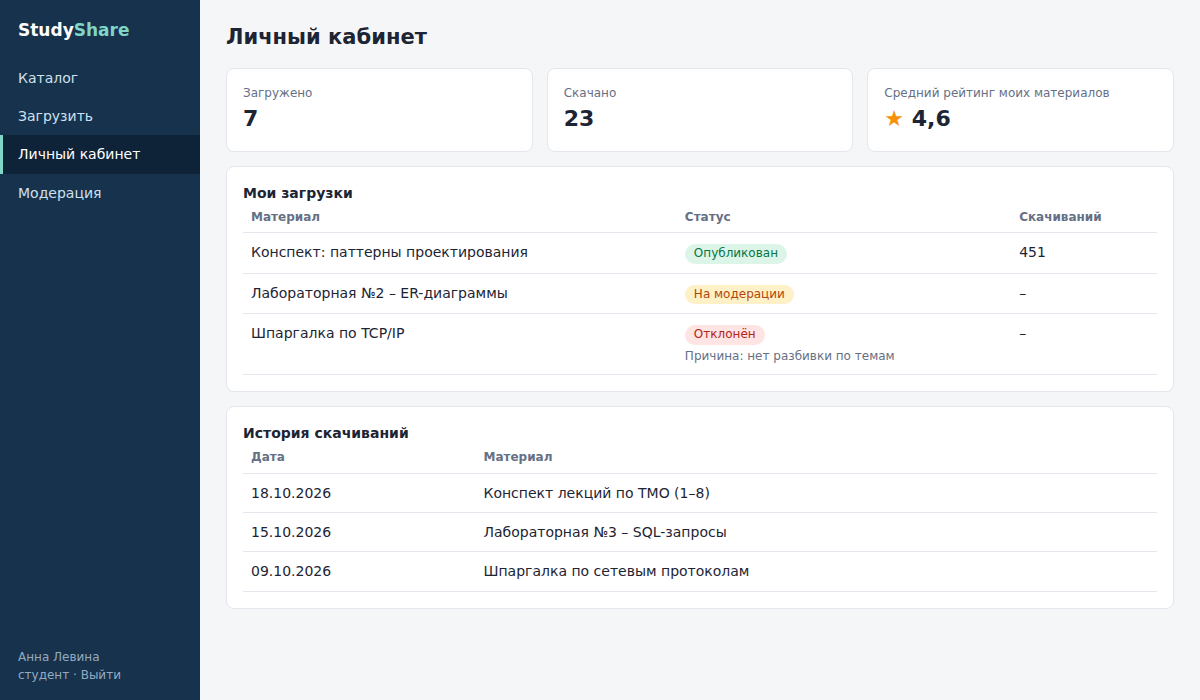
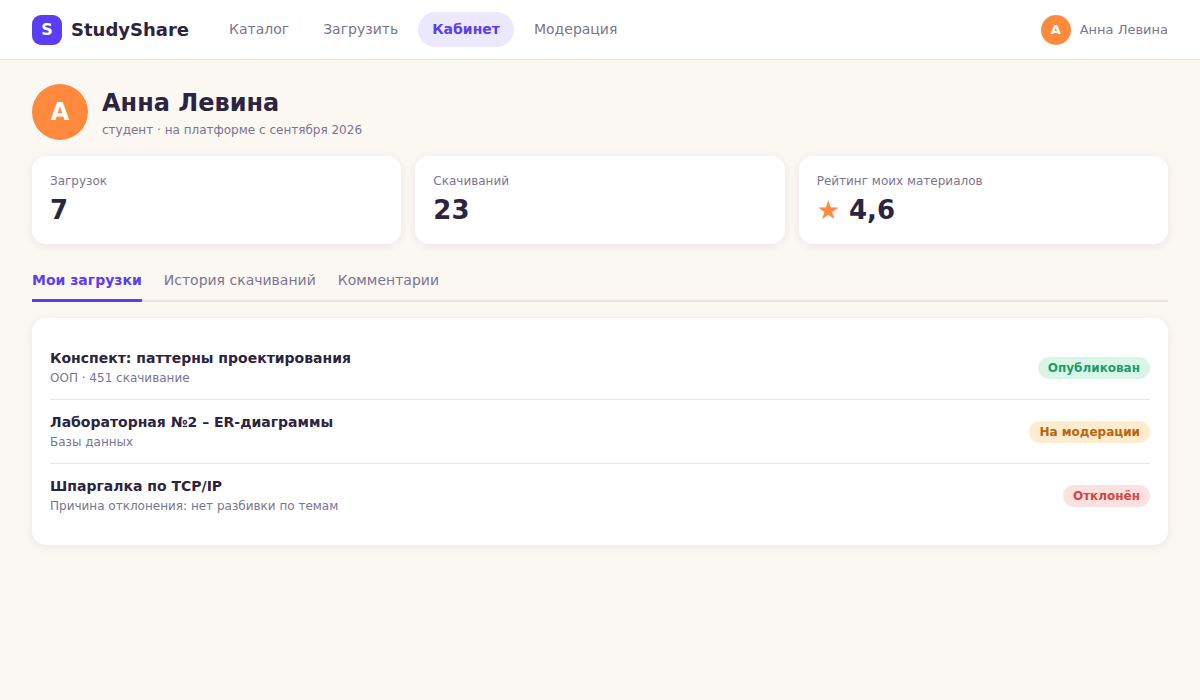
remind srs file

diff --git a/srs/mockups/catalog.html b/srs/mockups/catalog.html
@@ -1,3 +1,4 @@
-<!DOCTYPE html><html lang="ru"><head><meta charset="utf-8"><title>StudyShare – Каталог материалов</title><link rel="stylesheet" href="style.css"></head><body>
-<nav><b>Study<span>Share</span></b><a href="catalog.html" class="on">Каталог</a><a href="upload.html" class="">Загрузить</a><a href="profile.html" class="">Личный кабинет</a><a href="moderation.html" class="">Модерация</a><div class="me">Анна Левина<br>студент · Выйти</div></nav><main><h1>Каталог материалов<span><button class="btn">Загрузить материал</button></span></h1><div class="card"><input placeholder="Поиск по названию, тегам и содержимому документов"><div class="row" style="margin-top:10px"><div><label>Предмет</label><select><option>Все предметы</option></select></div><div><label>Преподаватель</label><select><option>Все преподаватели</option></select></div><div><label>Семестр</label><select><option>Все семестры</option></select></div><div><label>Сортировка</label><select><option>По рейтингу</option></select></div></div></div>
-<div class="card"><table><tr><th>Материал</th><th style="width:110px">Рейтинг</th><th style="width:110px"></th></tr><tr><td><a href="material.html" style="color:inherit"><b>Конспект лекций по ТМО (1–8)</b></a><br><span class="muted">Теория вероятностей · Иванов А. П. · 3 сем.</span><br><span class=tag>лекции</span><span class=tag>экзамен</span></td><td><span class="star">★</span> 4,8<br><span class="muted">212 скач.</span></td><td><button class="btn sec">Открыть</button></td></tr><tr><td><a href="material.html" style="color:inherit"><b>Лабораторная №3 – SQL-запросы</b></a><br><span class="muted">Базы данных · Сидорова Н. В. · 4 сем.</span><br><span class=tag>лабораторная</span><span class=tag>SQL</span></td><td><span class="star">★</span> 4,5<br><span class="muted">340 скач.</span></td><td><button class="btn sec">Открыть</button></td></tr><tr><td><a href="material.html" style="color:inherit"><b>Шпаргалка по сетевым протоколам</b></a><br><span class="muted">Сети и телекоммуникации · Громов П. Д. · 5 сем.</span><br><span class=tag>шпаргалка</span></td><td><span class="star">★</span> 4,1<br><span class="muted">97 скач.</span></td><td><button class="btn sec">Открыть</button></td></tr><tr><td><a href="material.html" style="color:inherit"><b>Конспект: паттерны проектирования</b></a><br><span class="muted">ООП · Лис М. Ю. · 4 сем.</span><br><span class=tag>конспект</span><span class=tag>Java</span></td><td><span class="star">★</span> 4,9<br><span class="muted">451 скач.</span></td><td><button class="btn sec">Открыть</button></td></tr></table></div></main></body></html>
+<!DOCTYPE html><html lang="ru"><head><meta charset="utf-8"><title>StudyShare</title><link rel="stylesheet" href="style.css"></head><body>
+<header><div class="logo"><i>S</i>StudyShare</div><nav><a href="catalog.html" class="on">Каталог</a><a href="upload.html" class="">Загрузить</a><a href="profile.html" class="">Кабинет</a><a href="moderation.html" class="">Модерация</a></nav><div class="me"><span class="av">А</span>Анна Левина</div></header><main><h1>Каталог материалов</h1><p class="sub">Найдено 128 материалов</p>
+<div class="card row"><input placeholder="Поиск по названию, тегам и содержимому документов" style="flex:1"><span class="btn">Найти</span></div>
+<div class="grid"><div class="card"><b>Фильтры</b><label>Предмет</label><select><option>Все предметы</option></select><label>Преподаватель</label><select><option>Все преподаватели</option></select><label>Семестр</label><select><option>Все семестры</option></select><label>Теги</label><span class="chip">конспект</span><span class="chip">лабораторная</span><span class="chip">шпаргалка</span><label>Сортировка</label><select><option>По рейтингу</option></select></div><div class="cards"><div class="card"><div class="cover" style="background:#5b3df5">PDF · ООП</div><b>Конспект: паттерны проектирования</b><div class="mut">Лис М. Ю. · 4 сем.</div><div style="margin:8px 0"><span class=chip>конспект</span><span class=chip>Java</span></div><div class="row sp"><span><span class="star">★</span> <b>4,9</b> <span class="mut">· 451 скач.</span></span><span class="btn o">Открыть</span></div></div><div class="card"><div class="cover" style="background:#ff8a3d">DOCX · БАЗЫ ДАННЫХ</div><b>Лабораторная №3 – SQL-запросы</b><div class="mut">Сидорова Н. В. · 4 сем.</div><div style="margin:8px 0"><span class=chip>лабораторная</span><span class=chip>SQL</span></div><div class="row sp"><span><span class="star">★</span> <b>4,5</b> <span class="mut">· 340 скач.</span></span><span class="btn o">Открыть</span></div></div><div class="card"><div class="cover" style="background:#1a9d6b">PDF · ТЕОРИЯ ВЕРОЯТНОСТЕЙ</div><b>Конспект лекций по ТМО (1–8)</b><div class="mut">Иванов А. П. · 3 сем.</div><div style="margin:8px 0"><span class=chip>лекции</span><span class=chip>экзамен</span></div><div class="row sp"><span><span class="star">★</span> <b>4,8</b> <span class="mut">· 212 скач.</span></span><span class="btn o">Открыть</span></div></div><div class="card"><div class="cover" style="background:#d6457a">PPTX · СЕТИ И ТЕЛЕКОММУНИКАЦИИ</div><b>Шпаргалка по сетевым протоколам</b><div class="mut">Громов П. Д. · 5 сем.</div><div style="margin:8px 0"><span class=chip>шпаргалка</span></div><div class="row sp"><span><span class="star">★</span> <b>4,1</b> <span class="mut">· 97 скач.</span></span><span class="btn o">Открыть</span></div></div></div></div></main></body></html>

diff --git a/srs/mockups/style.css b/srs/mockups/style.css
@@ -1,17 +1,24 @@
-:root{--ink:#1d2433;--muted:#667085;--line:#e3e6ec;--bg:#f5f6f8;--nav:#17324d;--acc:#1f7a6d;--acc2:#e8f3f1;--warn:#b54708;--bad:#b42318}
-*{box-sizing:border-box}body{margin:0;font:14px/1.45 "DejaVu Sans",Arial,sans-serif;color:var(--ink);background:var(--bg);display:flex;min-height:100vh}
-nav{width:200px;background:var(--nav);color:#cfe0ee;padding:18px 0;flex:none;position:relative}
-nav b{display:block;color:#fff;font-size:17px;padding:0 18px 16px}nav b span{color:#7fd6c6}
-nav a{display:block;padding:9px 18px;color:#cfe0ee;text-decoration:none}nav a.on{background:#0f2338;color:#fff;border-left:3px solid #7fd6c6;padding-left:15px}
-nav .me{position:absolute;bottom:16px;font-size:12px;padding:0 18px;color:#93abc0}
-main{flex:1;padding:22px 26px;min-width:0}
-h1{font-size:21px;margin:0 0 16px;display:flex;justify-content:space-between;align-items:center}
-.btn{background:var(--acc);color:#fff;border:0;border-radius:6px;padding:8px 14px;font:inherit;font-size:13px}.btn.sec{background:#fff;color:var(--ink);border:1px solid var(--line)}.btn.bad{background:var(--bad)}
-.card{background:#fff;border:1px solid var(--line);border-radius:8px;padding:16px;margin-bottom:14px}
-.row{display:flex;gap:14px}.row>*{flex:1}
-input,select,textarea{width:100%;padding:8px 10px;border:1px solid var(--line);border-radius:6px;font:inherit;background:#fff}
-label{font-size:12px;color:var(--muted);display:block;margin:0 0 4px}
-.tag{display:inline-block;background:var(--acc2);color:var(--acc);border-radius:10px;padding:1px 9px;font-size:12px;margin-right:4px}
-.st{display:inline-block;border-radius:10px;padding:1px 9px;font-size:12px}.ok{background:#dcf5e8;color:#067647}.wait{background:#fef0c7;color:var(--warn)}.no{background:#fee4e2;color:var(--bad)}
-table{width:100%;border-collapse:collapse}th{text-align:left;font-size:12px;color:var(--muted);font-weight:600;padding:6px 8px;border-bottom:1px solid var(--line)}td{padding:9px 8px;border-bottom:1px solid var(--line);vertical-align:top}
-.muted{color:var(--muted);font-size:12px}.star{color:#f79009}.big{font-size:22px;font-weight:700}
+:root{--ink:#2b2540;--mut:#7a7591;--bg:#fbf7f2;--pri:#5b3df5;--pri2:#ece8ff;--acc:#ff8a3d;--ok:#1a9d6b;--bad:#d64545;--line:#ebe5dc}
+*{box-sizing:border-box}body{margin:0;font:14px/1.5 "DejaVu Sans",Arial,sans-serif;color:var(--ink);background:var(--bg)}
+header{background:#fff;border-bottom:1px solid var(--line);display:flex;align-items:center;gap:26px;padding:12px 32px}
+.logo{display:flex;align-items:center;gap:9px;font-weight:700;font-size:18px}.logo i{width:30px;height:30px;border-radius:9px;background:var(--pri);color:#fff;display:flex;align-items:center;justify-content:center;font-style:normal;font-size:16px}
+header nav{display:flex;gap:6px;flex:1}header nav a{padding:7px 14px;border-radius:20px;color:var(--mut);text-decoration:none}header nav a.on{background:var(--pri2);color:var(--pri);font-weight:600}
+.me{display:flex;align-items:center;gap:9px;color:var(--mut);font-size:13px}.av{width:30px;height:30px;border-radius:50%;background:var(--acc);color:#fff;display:flex;align-items:center;justify-content:center;font-weight:700}
+main{padding:24px 32px;max-width:1200px;margin:0 auto}
+h1{font-size:24px;margin:0 0 4px}.sub{color:var(--mut);margin:0 0 18px}
+.btn{display:inline-block;background:var(--pri);color:#fff;border-radius:10px;padding:9px 16px;font-weight:600;font-size:13px;border:0}.btn.o{background:#fff;color:var(--pri);border:1.5px solid var(--pri)}.btn.d{background:var(--bad)}.btn.g{background:var(--ok)}.btn.w{background:#fff;color:var(--ink);border:1px solid var(--line)}
+.card{background:#fff;border-radius:14px;box-shadow:0 2px 10px rgba(60,40,120,.08);padding:18px;margin-bottom:16px}
+.grid{display:grid;grid-template-columns:250px 1fr;gap:22px}.cards{display:grid;grid-template-columns:1fr 1fr;gap:16px}
+.cover{height:66px;border-radius:10px;margin:-6px -6px 12px;display:flex;align-items:flex-end;padding:8px 12px;color:#fff;font-weight:700;font-size:12px;letter-spacing:.5px}
+input,select,textarea{width:100%;padding:9px 12px;border:1.5px solid var(--line);border-radius:10px;font:inherit;background:#fff;color:var(--ink)}
+label{display:block;font-size:12px;color:var(--mut);margin:12px 0 4px;font-weight:600}
+.chip{display:inline-block;background:var(--pri2);color:var(--pri);padding:2px 10px;border-radius:12px;font-size:12px;margin:0 4px 4px 0}
+.badge{display:inline-block;padding:2px 10px;border-radius:12px;font-size:12px;font-weight:600}.b-ok{background:#d9f5e8;color:var(--ok)}.b-w{background:#ffeccf;color:#b8660d}.b-no{background:#fde0e0;color:var(--bad)}
+.mut{color:var(--mut);font-size:12px}.star{color:var(--acc)}.row{display:flex;gap:14px;align-items:center}.sp{justify-content:space-between}
+.bar{height:8px;border-radius:4px;background:var(--pri2);flex:1;overflow:hidden}.bar b{display:block;height:100%;background:var(--pri)}
+.tabs{display:flex;gap:22px;border-bottom:2px solid var(--line);margin-bottom:16px}.tabs span{padding:8px 0;color:var(--mut)}.tabs span.on{color:var(--pri);font-weight:700;border-bottom:3px solid var(--pri);margin-bottom:-2px}
+.tile{flex:1;background:#fff;border-radius:14px;padding:14px 18px;box-shadow:0 2px 10px rgba(60,40,120,.08)}.tile b{font-size:26px;display:block}
+.li{display:flex;justify-content:space-between;align-items:center;padding:12px 0;border-bottom:1px solid var(--line)}.li:last-child{border:0}
+.step{display:flex;gap:10px;margin-bottom:18px}.step div{flex:1;padding:8px 12px;border-radius:10px;background:#fff;color:var(--mut);border:1.5px solid var(--line)}.step .on{border-color:var(--pri);color:var(--pri);font-weight:700}
+.drop{border:2px dashed #c9bffb;border-radius:14px;padding:22px;text-align:center;background:#faf9ff;color:var(--mut)}
+.doc{height:170px;border-radius:10px;background:repeating-linear-gradient(#fff 0 14px,#efeaf8 14px 16px);border:1px solid var(--line)}

diff --git a/srs/mockups/material.html b/srs/mockups/material.html
@@ -1,4 +1,6 @@
-<!DOCTYPE html><html lang="ru"><head><meta charset="utf-8"><title>StudyShare – Конспект: паттерны проектирования</title><link rel="stylesheet" href="style.css"></head><body>
-<nav><b>Study<span>Share</span></b><a href="catalog.html" class="on">Каталог</a><a href="upload.html" class="">Загрузить</a><a href="profile.html" class="">Личный кабинет</a><a href="moderation.html" class="">Модерация</a><div class="me">Анна Левина<br>студент · Выйти</div></nav><main><h1>Конспект: паттерны проектирования<span></span></h1><div class="row"><div style="flex:2"><div class="card"><p class="muted">ООП · Лис М. Ю. · 4 семестр · загрузил(а) Павел Громов, 12.10.2026</p><p><span class="tag">конспект</span><span class="tag">Java</span></p><p>Конспект лекций 1–6: порождающие, структурные и поведенческие паттерны с примерами на Java.</p><button class="btn">Скачать (PDF, 2,4 МБ)</button> <button class="btn sec">Пожаловаться</button></div>
-<div class="card"><b>Комментарии и вопросы (2)</b><table><tr><td><b>Мария Лис</b> <span class="muted">вопрос</span><br>Есть ли пример для паттерна «Мост»?</td></tr><tr><td><b>Павел Громов</b> <span class="muted">автор</span><br>Добавил на стр. 14.</td></tr></table><textarea rows="2" placeholder="Ваш комментарий или вопрос" style="margin-top:10px"></textarea><br><button class="btn" style="margin-top:8px">Отправить</button></div></div>
-<div style="flex:1"><div class="card"><div class="big"><span class="star">★</span> 4,9</div><span class="muted">37 оценок · 451 скачивание</span><hr style="border:0;border-top:1px solid var(--line)"><label>Ваша оценка</label><div class="star" style="font-size:22px">★★★★☆</div><button class="btn sec" style="margin-top:8px">Сохранить оценку</button></div></div></div></main></body></html>
+<!DOCTYPE html><html lang="ru"><head><meta charset="utf-8"><title>StudyShare</title><link rel="stylesheet" href="style.css"></head><body>
+<header><div class="logo"><i>S</i>StudyShare</div><nav><a href="catalog.html" class="on">Каталог</a><a href="upload.html" class="">Загрузить</a><a href="profile.html" class="">Кабинет</a><a href="moderation.html" class="">Модерация</a></nav><div class="me"><span class="av">А</span>Анна Левина</div></header><main><p class="mut">Каталог / ООП / Лис М. Ю.</p><h1>Конспект: паттерны проектирования</h1><p class="sub">Загрузил Павел Громов · 12.10.2026 · 4 семестр</p>
+<div class="grid" style="grid-template-columns:1fr 300px"><div><div class="card"><span class="chip">конспект</span><span class="chip">Java</span><p>Конспект лекций 1–6: порождающие, структурные и поведенческие паттерны с примерами на Java.</p><div class="doc"></div></div>
+<div class="card"><b>Комментарии и вопросы (2)</b><div class="li"><div><b>Мария Лис</b> <span class="badge b-w">вопрос</span><br>Есть ли пример для паттерна «Мост»?</div></div><div class="li"><div><b>Павел Громов</b> <span class="badge b-ok">автор</span><br>Добавил на стр. 14.</div></div><textarea rows="2" placeholder="Напишите комментарий или вопрос" style="margin-top:10px"></textarea><p><span class="btn">Отправить</span></p></div></div>
+<div><div class="card"><span class="btn" style="display:block;text-align:center">Скачать · PDF, 2,4 МБ</span><p class="mut" style="text-align:center">451 скачивание</p><span class="btn w" style="display:block;text-align:center">Пожаловаться</span></div>
+<div class="card"><div class="row sp"><b style="font-size:26px"><span class="star">★</span> 4,9</b><span class="mut">37 оценок</span></div><div class="row"><span class="mut">5</span><div class="bar"><b style="width:86%"></b></div></div><div class="row"><span class="mut">4</span><div class="bar"><b style="width:12%"></b></div></div><div class="row"><span class="mut">3</span><div class="bar"><b style="width:2%"></b></div></div><label>Ваша оценка</label><div class="star" style="font-size:22px">★★★★☆</div></div></div></div></main></body></html>

diff --git a/srs/mockups/profile.html b/srs/mockups/profile.html
@@ -1,4 +1,5 @@
-<!DOCTYPE html><html lang="ru"><head><meta charset="utf-8"><title>StudyShare – Личный кабинет</title><link rel="stylesheet" href="style.css"></head><body>
-<nav><b>Study<span>Share</span></b><a href="catalog.html" class="">Каталог</a><a href="upload.html" class="">Загрузить</a><a href="profile.html" class="on">Личный кабинет</a><a href="moderation.html" class="">Модерация</a><div class="me">Анна Левина<br>студент · Выйти</div></nav><main><h1>Личный кабинет<span></span></h1><div class="row"><div class="card"><div class="muted">Загружено</div><div class="big">7</div></div><div class="card"><div class="muted">Скачано</div><div class="big">23</div></div><div class="card"><div class="muted">Средний рейтинг моих материалов</div><div class="big"><span class="star">★</span> 4,6</div></div></div>
-<div class="card"><b>Мои загрузки</b><table><tr><th>Материал</th><th>Статус</th><th>Скачиваний</th></tr><tr><td>Конспект: паттерны проектирования</td><td><span class="st ok">Опубликован</span></td><td>451</td></tr><tr><td>Лабораторная №2 – ER-диаграммы</td><td><span class="st wait">На модерации</span></td><td>–</td></tr><tr><td>Шпаргалка по TCP/IP</td><td><span class="st no">Отклонён</span><br><span class="muted">Причина: нет разбивки по темам</span></td><td>–</td></tr></table></div>
-<div class="card"><b>История скачиваний</b><table><tr><th>Дата</th><th>Материал</th></tr><tr><td>18.10.2026</td><td>Конспект лекций по ТМО (1–8)</td></tr><tr><td>15.10.2026</td><td>Лабораторная №3 – SQL-запросы</td></tr><tr><td>09.10.2026</td><td>Шпаргалка по сетевым протоколам</td></tr></table></div></main></body></html>
+<!DOCTYPE html><html lang="ru"><head><meta charset="utf-8"><title>StudyShare</title><link rel="stylesheet" href="style.css"></head><body>
+<header><div class="logo"><i>S</i>StudyShare</div><nav><a href="catalog.html" class="">Каталог</a><a href="upload.html" class="">Загрузить</a><a href="profile.html" class="on">Кабинет</a><a href="moderation.html" class="">Модерация</a></nav><div class="me"><span class="av">А</span>Анна Левина</div></header><main><div class="row" style="margin-bottom:16px"><span class="av" style="width:56px;height:56px;font-size:24px">А</span><div><h1 style="margin:0">Анна Левина</h1><div class="mut">студент · на платформе с сентября 2026</div></div></div>
+<div class="row" style="margin-bottom:18px"><div class="tile"><span class="mut">Загрузок</span><b>7</b></div><div class="tile"><span class="mut">Скачиваний</span><b>23</b></div><div class="tile"><span class="mut">Рейтинг моих материалов</span><b><span class="star">★</span> 4,6</b></div></div>
+<div class="tabs"><span class="on">Мои загрузки</span><span>История скачиваний</span><span>Комментарии</span></div>
+<div class="card"><div class="li"><div><b>Конспект: паттерны проектирования</b><div class="mut">ООП · 451 скачивание</div></div><span class="badge b-ok">Опубликован</span></div><div class="li"><div><b>Лабораторная №2 – ER-диаграммы</b><div class="mut">Базы данных</div></div><span class="badge b-w">На модерации</span></div><div class="li"><div><b>Шпаргалка по TCP/IP</b><div class="mut">Причина отклонения: нет разбивки по темам</div></div><span class="badge b-no">Отклонён</span></div></div></main></body></html>

diff --git a/srs/mockups/upload.html b/srs/mockups/upload.html
@@ -1,5 +1,5 @@
-<!DOCTYPE html><html lang="ru"><head><meta charset="utf-8"><title>StudyShare – Загрузка материала</title><link rel="stylesheet" href="style.css"></head><body>
-<nav><b>Study<span>Share</span></b><a href="catalog.html" class="">Каталог</a><a href="upload.html" class="on">Загрузить</a><a href="profile.html" class="">Личный кабинет</a><a href="moderation.html" class="">Модерация</a><div class="me">Анна Левина<br>студент · Выйти</div></nav><main><h1>Загрузка материала<span></span></h1><div class="card" style="max-width:720px"><label>Файл (PDF, DOCX, PPTX, TXT, PNG, JPG, до 20 МБ)</label><input value="konspekt_patterns.pdf"><div class="row" style="margin-top:12px"><div><label>Название</label><input value="Конспект: паттерны проектирования"></div><div><label>Тип</label><select><option>Конспект</option></select></div></div>
-<div class="row" style="margin-top:12px"><div><label>Предмет</label><select><option>ООП</option></select></div><div><label>Преподаватель</label><select><option>Лис М. Ю.</option></select></div><div><label>Семестр</label><select><option>4 семестр</option></select></div></div>
-<div style="margin-top:12px"><label>Теги</label><input value="конспект, Java"></div><div style="margin-top:12px"><label>Описание</label><textarea rows="3">Конспект лекций 1–6 с примерами на Java.</textarea></div>
-<p><input type="checkbox" style="width:auto" checked> Подтверждаю, что имею право опубликовать этот материал</p><button class="btn">Отправить на модерацию</button> <button class="btn sec">Сохранить черновик</button></div></main></body></html>
+<!DOCTYPE html><html lang="ru"><head><meta charset="utf-8"><title>StudyShare</title><link rel="stylesheet" href="style.css"></head><body>
+<header><div class="logo"><i>S</i>StudyShare</div><nav><a href="catalog.html" class="">Каталог</a><a href="upload.html" class="on">Загрузить</a><a href="profile.html" class="">Кабинет</a><a href="moderation.html" class="">Модерация</a></nav><div class="me"><span class="av">А</span>Анна Левина</div></header><main><h1>Загрузка материала</h1><p class="sub">Материал будет опубликован после проверки модератором</p>
+<div class="step"><div class="on">1 · Файл</div><div>2 · Описание</div><div>3 · Проверка</div></div>
+<div class="grid" style="grid-template-columns:1fr 1fr"><div class="card"><div class="drop"><b>Перетащите файл сюда</b><br>PDF, DOCX, PPTX, TXT, PNG, JPG · до 20 МБ<br><br><span class="btn o">Выбрать файл</span></div><p class="mut">Выбран: konspekt_patterns.pdf (2,4 МБ)</p></div>
+<div class="card"><label style="margin-top:0">Название</label><input value="Конспект: паттерны проектирования"><div class="row"><div style="flex:1"><label>Предмет</label><select><option>ООП</option></select></div><div style="flex:1"><label>Семестр</label><select><option>4 семестр</option></select></div></div><label>Преподаватель</label><select><option>Лис М. Ю.</option></select><label>Теги</label><input value="конспект, Java"><label>Описание</label><textarea rows="2">Конспект лекций 1–6 с примерами на Java.</textarea><p><input type="checkbox" style="width:auto" checked> У меня есть право опубликовать этот материал</p><span class="btn">Отправить на модерацию</span> <span class="btn w">Черновик</span></div></div></main></body></html>

diff --git a/srs/mockups/moderation.html b/srs/mockups/moderation.html
@@ -1,4 +1,4 @@
-<!DOCTYPE html><html lang="ru"><head><meta charset="utf-8"><title>StudyShare – Модерация</title><link rel="stylesheet" href="style.css"></head><body>
-<nav><b>Study<span>Share</span></b><a href="catalog.html" class="">Каталог</a><a href="upload.html" class="">Загрузить</a><a href="profile.html" class="">Личный кабинет</a><a href="moderation.html" class="on">Модерация</a><div class="me">Анна Левина<br>студент · Выйти</div></nav><main><h1>Модерация<span></span></h1><div class="card"><b>Очередь материалов (2)</b><table><tr><th>Материал</th><th>Автор</th><th>Загружен</th><th style="width:260px">Решение</th></tr><tr><td><b>Лабораторная №2 – ER-диаграммы</b><br><span class="muted">Базы данных · Сидорова Н. В. · 4 сем.</span></td><td>Анна Левина</td><td>19.10.2026</td><td><button class="btn">Опубликовать</button> <button class="btn bad">Отклонить</button></td></tr><tr><td><b>Конспект по ТВиМС</b><br><span class="muted">Теория вероятностей · Иванов А. П. · 3 сем.</span></td><td>Андрей Кравец</td><td>20.10.2026</td><td><button class="btn">Опубликовать</button> <button class="btn bad">Отклонить</button></td></tr></table></div>
-<div class="card"><b>Жалобы (1)</b><table><tr><th>Объект</th><th>Причина</th><th>Действие</th></tr><tr><td>Шпаргалка по сетевым протоколам</td><td>Нарушение авторских прав</td><td><button class="btn sec">Скрыть материал</button> <button class="btn sec">Отклонить жалобу</button></td></tr></table></div>
-<div class="card"><label>Причина отклонения (обязательна)</label><input placeholder="Например: нет разбивки по темам"></div></main></body></html>
+<!DOCTYPE html><html lang="ru"><head><meta charset="utf-8"><title>StudyShare</title><link rel="stylesheet" href="style.css"></head><body>
+<header><div class="logo"><i>S</i>StudyShare</div><nav><a href="catalog.html" class="">Каталог</a><a href="upload.html" class="">Загрузить</a><a href="profile.html" class="">Кабинет</a><a href="moderation.html" class="on">Модерация</a></nav><div class="me"><span class="av">А</span>Анна Левина</div></header><main><h1>Модерация</h1><p class="sub">В очереди: 2 материала · 1 жалоба</p>
+<div class="grid" style="grid-template-columns:320px 1fr"><div><div class="card" style="border:2px solid var(--pri)"><b>Лабораторная №2 – ER-диаграммы</b><div class="mut">Анна Левина · 19.10.2026</div></div><div class="card"><b>Конспект по ТВиМС</b><div class="mut">Андрей Кравец · 20.10.2026</div></div><div class="card"><span class="badge b-no">жалоба</span> <b>Шпаргалка по сетевым протоколам</b><div class="mut">Нарушение авторских прав</div></div></div>
+<div class="card"><div class="row sp"><b style="font-size:18px">Лабораторная №2 – ER-диаграммы</b><span class="badge b-w">На модерации</span></div><div class="mut">Базы данных · Сидорова Н. В. · 4 семестр · DOCX, 1,1 МБ</div><div class="doc" style="margin:12px 0"></div><label>Причина отклонения (обязательна при отклонении)</label><input placeholder="Например: нет разбивки по темам"><p><span class="btn g">Опубликовать</span> <span class="btn d">Отклонить</span> <span class="btn w">Скачать для проверки</span></p></div></div></main></body></html>
